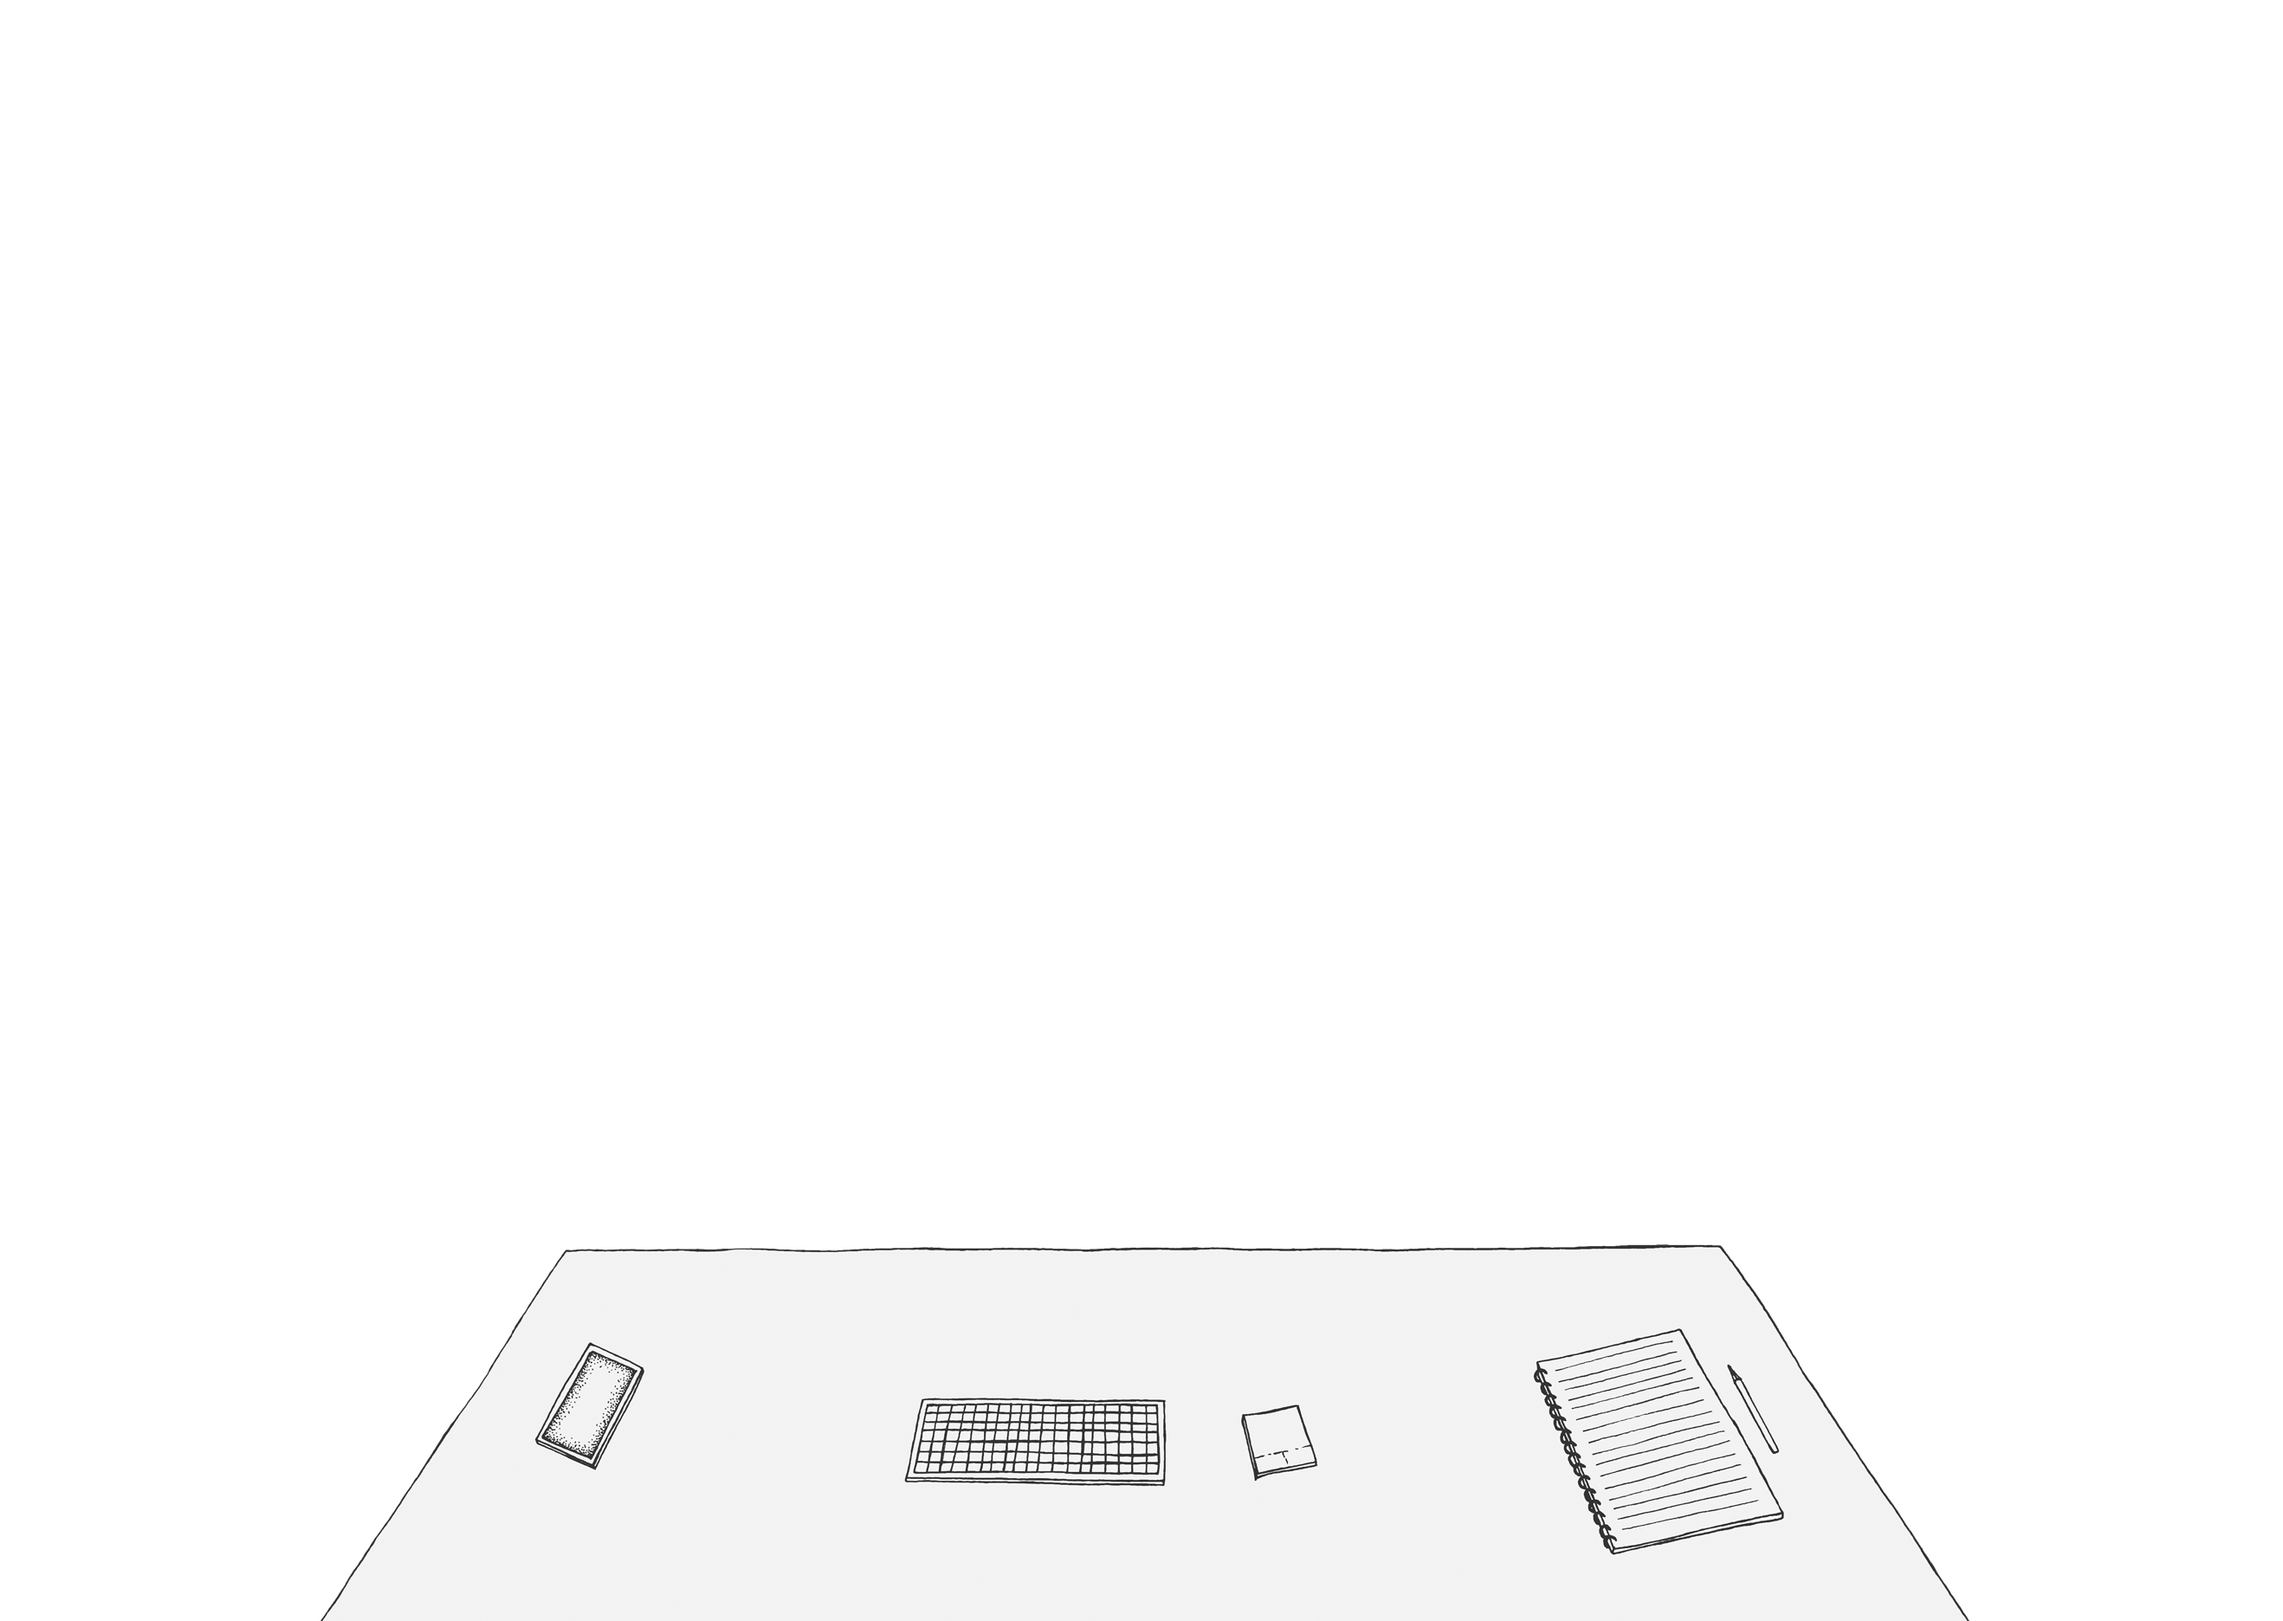
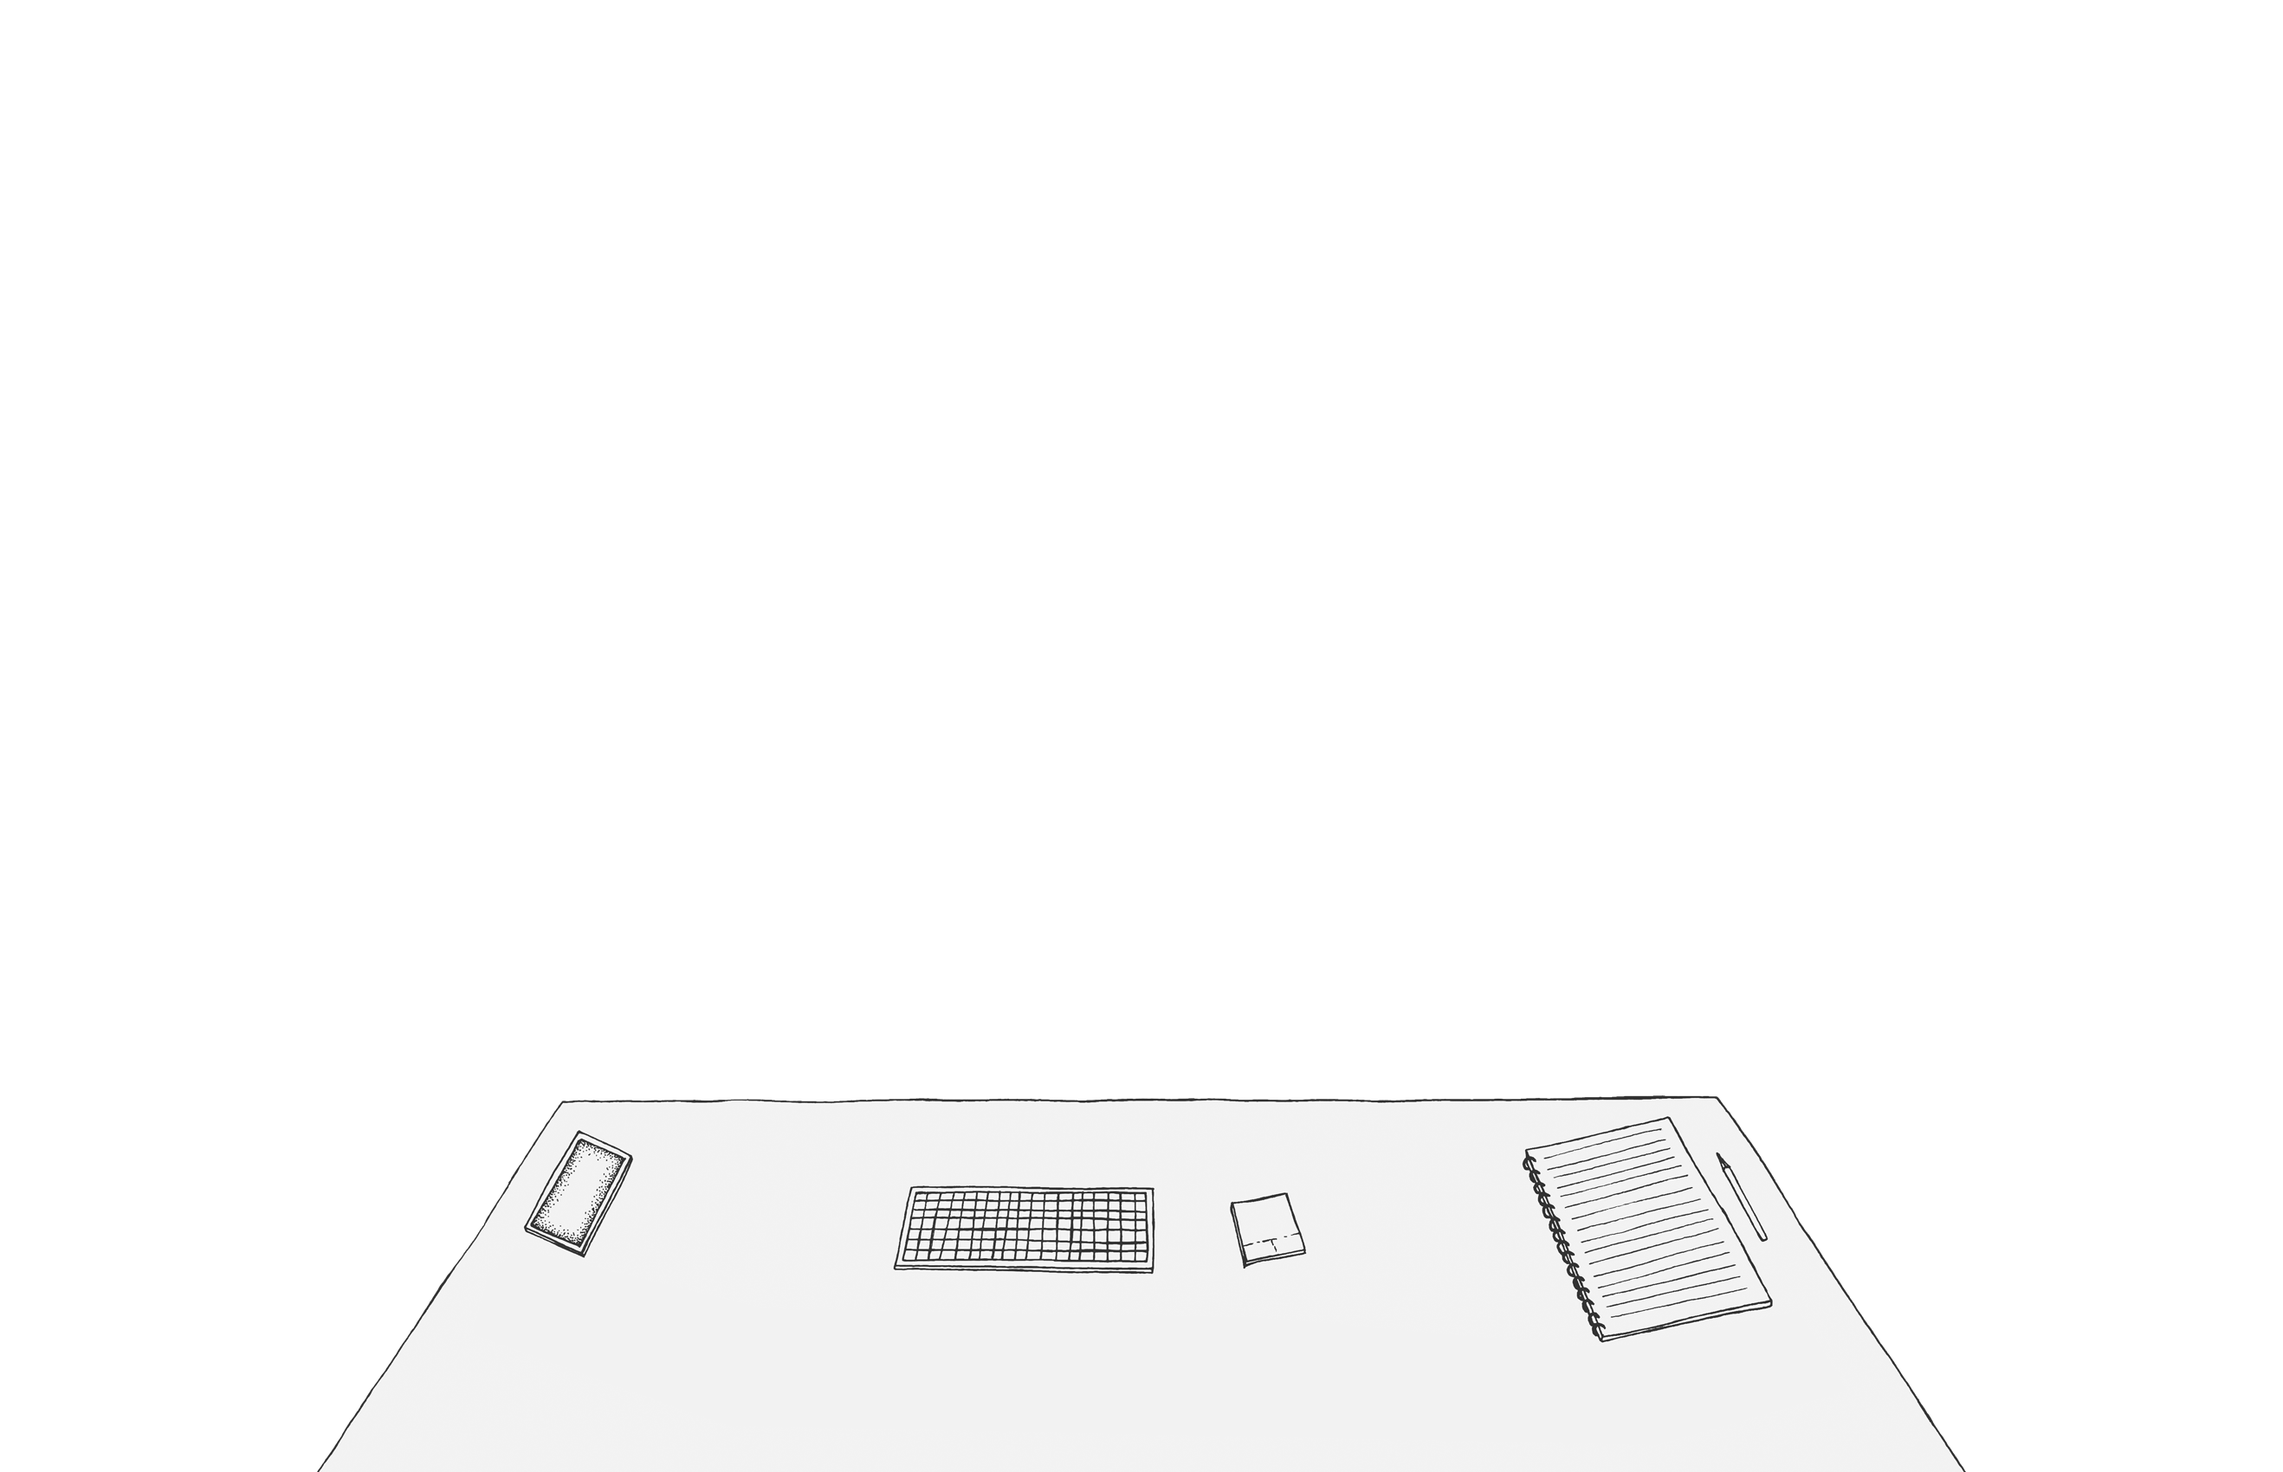
[VISUALS] Fixed relative paths for images

Changed region(s): [[0.6533, 0.7482, 0.7777, 0.9665], [0.3733, 0.7794, 0.5599, 0.9353], [0.2178, 0.7482, 0.28, 0.9041]]

diff --git a/src/modules/hub.html b/src/modules/hub.html
@@ -7,7 +7,7 @@
 
 
     <div id="screens" class="parallax-layer">
-        <img src="../../src/img/screens.png">
+        <!--<img src="../../src/img/screens.png">-->
 
         <!-- 124 x 99 unskewed, 182 x 99 skewed -->
         <!--<div id="phone-device" style="position:absolute; top:80%; left:25%; width: 5%; height: 10%;">-->
@@ -20,7 +20,8 @@
             <button data-dialog="camera" class="trigger" style="height: 100%; width: 100%; opacity: 0;">cameras</button>
         </div>-->
     </div>
-    <div id="desk" class="parallax-layer"><img src="../../src/img/desk2.png">
+    <div id="desk" class="parallax-layer">
+        <!--<img src="../img/desk.png">-->
         <div id="memo-device" style="position:absolute; top:78.5%; left:67%; width: 10%; height: 17%; ">
             <button data-dialog="memo" class="trigger" style="height: 100%; width: 100%; opacity: 0;">main</button>>
         </div>
